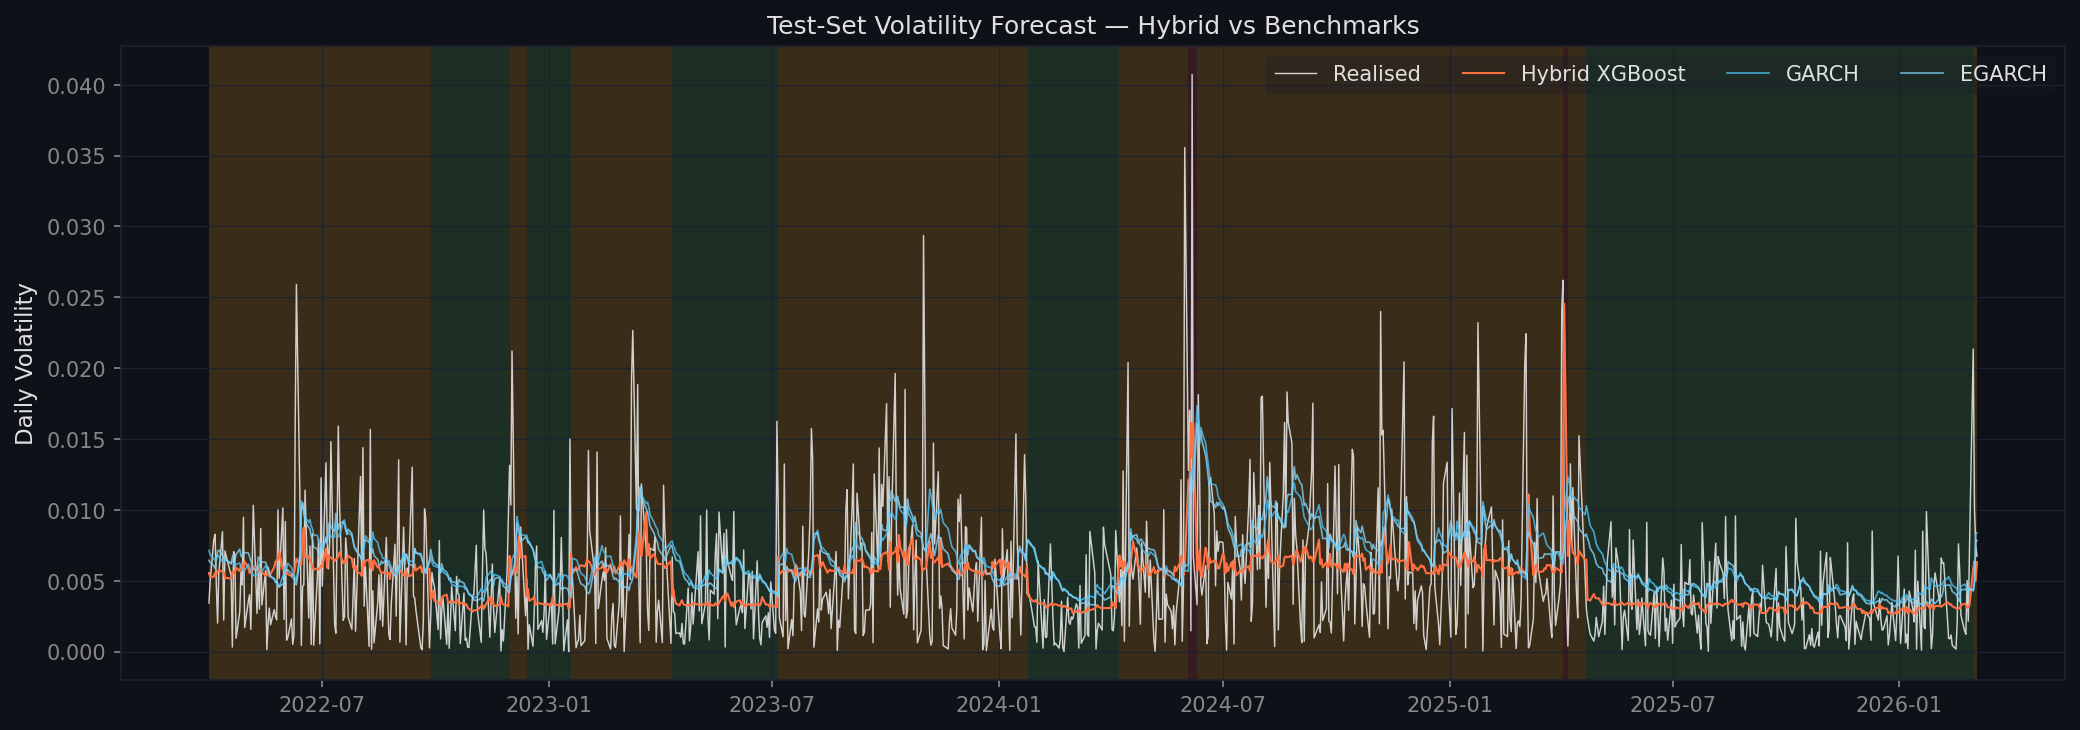
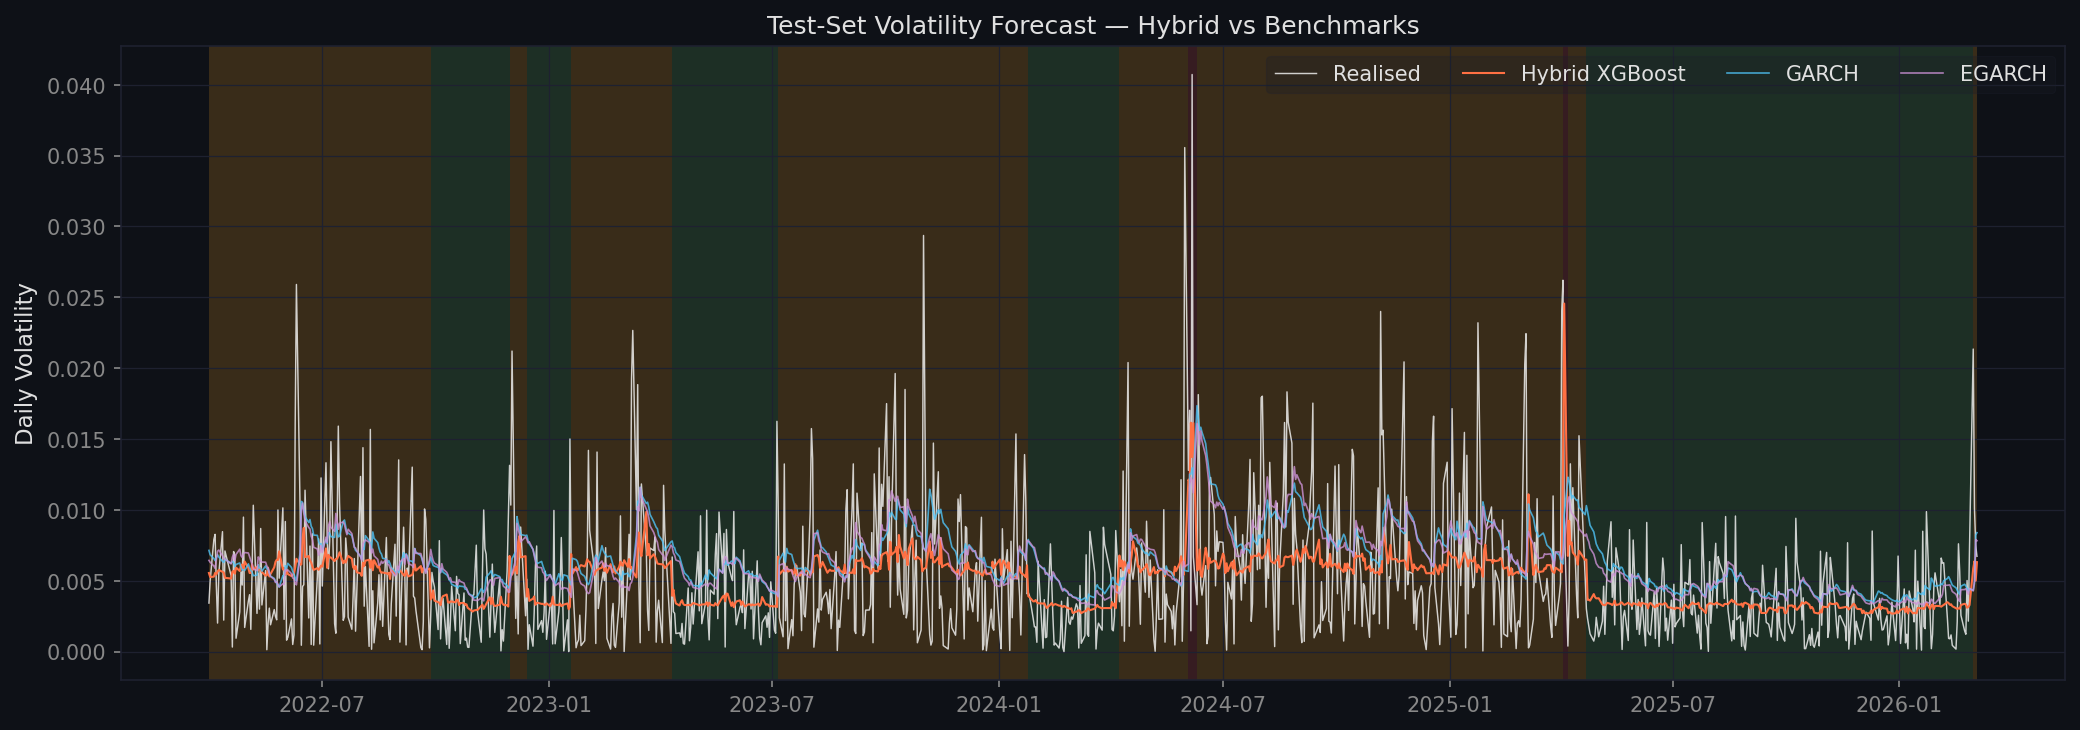
fix: EGARCH colour to lavender, interval legend labels, restore coverage+WF metrics

diff --git a/src/pipeline.py b/src/pipeline.py
@@ -613,7 +613,12 @@ def step_walk_forward(
 
 def _build_pipeline_diagram(path: Path) -> None:
     """
-    Draw the nine DVC pipeline stages as a horizontal flow diagram.
+    Draw the nine DVC pipeline stages as a backwards-C (snake) flow diagram.
+
+    Top row  (left → right) : 01 → 02 → 03 → 04 → 05
+    Connector (top-right down): 05 ↓ 06
+    Bottom row (right → left): 06 → 07 → 08 → 09
+
     Imports matplotlib locally — only called from step_build_figures.
     """
     import matplotlib.pyplot as plt
@@ -621,46 +626,70 @@ def _build_pipeline_diagram(path: Path) -> None:
     import matplotlib.colors as mcolors
     from src.dark_viz import C, savefig
 
-    stages = [
-        ('01\nLoad Data',     C.GARCH),
-        ('02\nReturns',       C.GARCH),
-        ('03\nGARCH/EGARCH',  C.GARCH),
-        ('04\nHMM',           C.MED),
-        ('05\nFeatures',      C.MED),
-        ('06\nHybrid XGB',    C.HYBRID),
-        ('07\nConformal',     C.HYBRID),
-        ('08\nWalk-Forward',  C.HYBRID),
-        ('09\nFigures',       C.LOW),
+    # top row: (x_position, label, colour)
+    top = [
+        (0, '01\nLoad Data',    C.GARCH),
+        (1, '02\nReturns',      C.GARCH),
+        (2, '03\n(E)GARCH',     C.GARCH),
+        (3, '04\nHMM',          C.MED),
+        (4, '05\nFeatures',     C.MED),
+    ]
+    # bottom row right-to-left: 06 at x=4, 07 at x=3, 08 at x=2, 09 at x=1
+    bot = [
+        (4, '06\nHybrid XGB',   C.HYBRID),
+        (3, '07\nConformal',    C.HYBRID),
+        (2, '08\nWalk-Forward', C.HYBRID),
+        (1, '09\nFigures',      C.LOW),
     ]
 
-    fig, ax = plt.subplots(figsize=(16, 2.8))
-    ax.set_xlim(-0.6, len(stages) - 0.4)
-    ax.set_ylim(-0.8, 0.8)
+    fig, ax = plt.subplots(figsize=(9, 4.2))
+    ax.set_xlim(-0.55, 4.55)
+    ax.set_ylim(-0.38, 1.45)
     ax.axis('off')
 
-    box_w, box_h = 0.72, 0.48
+    box_w, box_h = 0.82, 0.46
+    Y_TOP, Y_BOT = 1.0, 0.0
 
-    for i, (label, colour) in enumerate(stages):
+    def draw_box(x, y, label, colour):
         face_rgba = (*mcolors.to_rgb(colour), 0.18)
         rect = mpatches.FancyBboxPatch(
-            (i - box_w / 2, -box_h / 2), box_w, box_h,
+            (x - box_w / 2, y - box_h / 2), box_w, box_h,
             boxstyle='round,pad=0.04',
-            linewidth=1.2,
-            edgecolor=colour,
-            facecolor=face_rgba,
+            linewidth=1.2, edgecolor=colour, facecolor=face_rgba,
         )
         ax.add_patch(rect)
-        ax.text(i, 0, label, ha='center', va='center',
-                color=C.TEXT, fontsize=8.5, fontweight='bold',
-                linespacing=1.3)
-        if i < len(stages) - 1:
-            ax.annotate(
-                '', xy=(i + box_w / 2 + 0.04, 0),
-                xytext=(i + box_w / 2 - 0.04 + (1 - box_w), 0),
-                arrowprops=dict(arrowstyle='->', color=C.MUTED, lw=1.1),
-            )
+        ax.text(x, y, label, ha='center', va='center',
+                color=C.TEXT, fontsize=13, fontweight='bold', linespacing=1.5)
 
-    ax.set_title('DVC Pipeline — volatility_regimes', color=C.TEXT, fontsize=11, pad=8)
+    def arrow(x0, y0, x1, y1):
+        ax.annotate(
+            '', xy=(x1, y1), xytext=(x0, y0),
+            arrowprops=dict(arrowstyle='->', color=C.MUTED, lw=1.1),
+        )
+
+    # draw top row + horizontal arrows
+    for i, (x, label, colour) in enumerate(top):
+        draw_box(x, Y_TOP, label, colour)
+        if i < len(top) - 1:
+            arrow(x + box_w / 2 + 0.04, Y_TOP,
+                  top[i + 1][0] - box_w / 2 - 0.04, Y_TOP)
+
+    # draw bottom row + horizontal arrows (right to left)
+    for i, (x, label, colour) in enumerate(bot):
+        draw_box(x, Y_BOT, label, colour)
+        if i < len(bot) - 1:
+            next_x = bot[i + 1][0]
+            arrow(x - box_w / 2 - 0.04, Y_BOT,
+                  next_x + box_w / 2 + 0.04, Y_BOT)
+
+    # vertical connector: bottom of 05 (x=4, top) → top of 06 (x=4, bot)
+    arrow(4, Y_TOP - box_h / 2 - 0.04,
+          4, Y_BOT + box_h / 2 + 0.04)
+
+    ax.set_title(
+        'DVC Pipeline — regime-aware-volatility-forecasting',
+        color=C.TEXT, fontsize=14, pad=12,
+    )
     savefig(fig, path)
 
 
@@ -783,14 +812,18 @@ def step_build_figures() -> None:
         coverage  = int((1 - alpha) * 100)
         lower     = intervals[f'lower_{coverage}'].values
         upper     = intervals[f'upper_{coverage}'].values
+        alpha_upper = alpha * phi
+        alpha_lower = alpha * (1 - phi)
         fig, ax   = plt.subplots(figsize=(14, 5))
         regime_band_ax(ax, regimes_test, alpha=0.12)
         ax.fill_between(intervals.index, lower, upper,
-                        color=C.BAND, alpha=0.18, label=f'{coverage}% interval')
-        ax.plot(intervals.index, upper,      color=C.UPPER,  lw=0.8, alpha=0.7)
-        ax.plot(intervals.index, lower,      color=C.LOWER,  lw=0.8, alpha=0.7)
-        ax.plot(intervals.index, y_true_int, color=C.ACTUAL, lw=0.6, alpha=0.8,
-                label='Realised')
+                        color=C.BAND, alpha=0.15)
+        ax.plot(intervals.index, upper, color=C.UPPER, lw=1.0,
+                label=f'Upper bound  (α_upper = {alpha_upper:.0%})')
+        ax.plot(intervals.index, lower, color=C.LOWER, lw=1.0,
+                label=f'Lower bound  (α_lower = {alpha_lower:.0%})')
+        ax.plot(intervals.index, y_true_int, color=C.ACTUAL, lw=0.7, alpha=0.9,
+                label='Realised volatility')
         ax.set_title(
             f'Asymmetric Conformal Intervals — {coverage}%  '
             f'(φ={phi},  α_upper={alpha * phi:.1%})'
@@ -938,11 +971,13 @@ def step_build_figures() -> None:
     upper_90 = intervals['upper_90'].values
     regime_band_ax(ax_r, regimes_test, alpha=0.12)
     ax_r.fill_between(intervals.index, lower_90, upper_90,
-                      color=C.BAND, alpha=0.18, label='90% interval')
-    ax_r.plot(intervals.index, upper_90,    color=C.UPPER,  lw=0.8, alpha=0.7)
-    ax_r.plot(intervals.index, lower_90,    color=C.LOWER,  lw=0.8, alpha=0.7)
-    ax_r.plot(intervals.index, y_true_int,  color=C.ACTUAL, lw=0.6, alpha=0.8,
-              label='Realised')
+                      color=C.BAND, alpha=0.15)
+    ax_r.plot(intervals.index, upper_90,   color=C.UPPER, lw=1.0,
+              label=f'Upper bound  (α_upper = {0.10 * phi:.0%})')
+    ax_r.plot(intervals.index, lower_90,   color=C.LOWER, lw=1.0,
+              label=f'Lower bound  (α_lower = {0.10 * (1-phi):.0%})')
+    ax_r.plot(intervals.index, y_true_int, color=C.ACTUAL, lw=0.7, alpha=0.9,
+              label='Realised volatility')
     ax_r.set_title(f'Asymmetric Conformal Intervals — 90%  (φ={phi})')
     ax_r.set_ylabel('Daily Volatility')
     ax_r.legend(ncol=3, framealpha=0.3, fontsize=9)

diff --git a/src/dark_viz.py b/src/dark_viz.py
@@ -63,7 +63,7 @@ class _Palette:
 
     # Model lines
     GARCH   : str = '#4FC3F7'
-    EGARCH  : str = '#81D4FA'
+    EGARCH  : str = '#CE93D8'
     HYBRID  : str = '#FF7043'
     ACTUAL  : str = '#FAFAFA'
 
